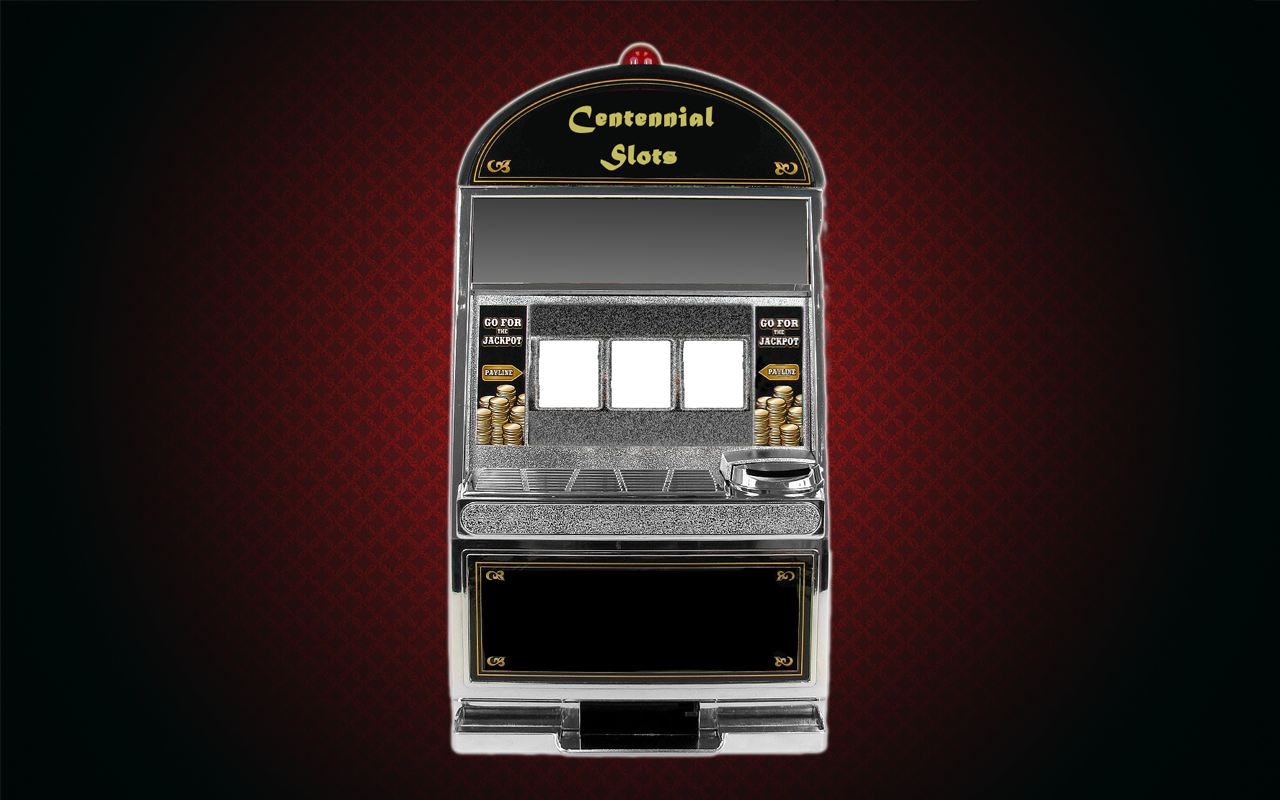
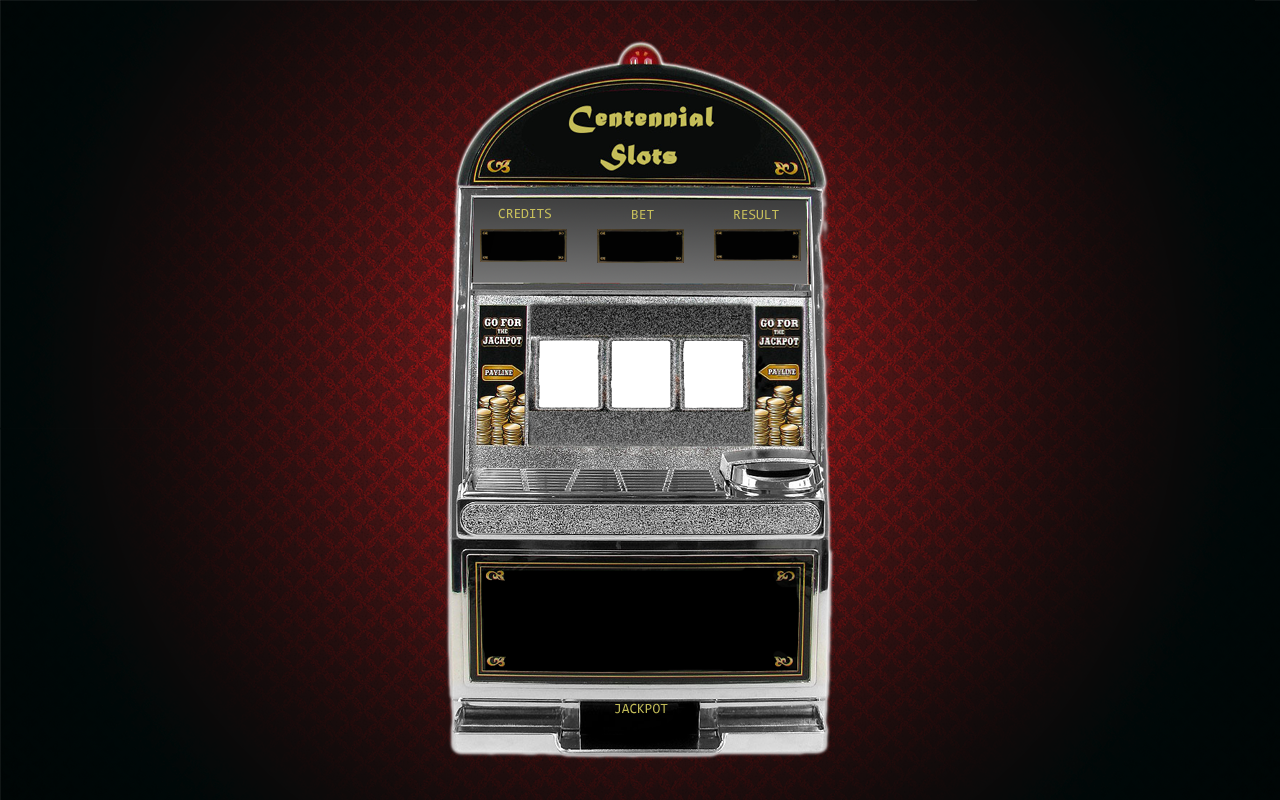
added labels

Changed region(s): [[0.375, 0.25, 0.625, 0.3438], [0.4688, 0.875, 0.5312, 0.9062]]

diff --git a/Scripts/scenes/slotmachine.ts b/Scripts/scenes/slotmachine.ts
@@ -7,7 +7,11 @@ module scenes {
         private _bet10Button: objects.Button;
         private _bet100Button: objects.Button;
         private _spinButton: objects.Button;
-        private _reels:createjs.Bitmap[];
+        private _reels: createjs.Bitmap[];
+        private _jackpotText: objects.Label;
+        private _creditsText: objects.Label;
+        private _betText: objects.Label;
+        private _resultText: objects.Label;
 
         private _grapes = 0;
         private _bananas = 0;
@@ -48,16 +52,46 @@ module scenes {
             // add SpinButton to the scene
             this._spinButton = new objects.Button("SpinButton", 716, 587, false);
             this.addChild(this._spinButton);
-            this._spinButton.on("click", this._spinButtonClick, this); 
-        
+            this._spinButton.on("click", this._spinButtonClick, this);
+
+            // add Credit Text to the scene
+            this._creditsText = new objects.Label(
+                "000000",
+                "20px Consolas",
+                "#ff0000",
+                557, 237, false);
+            this._creditsText.textAlign = "right";
+            this.addChild(this._creditsText);
+            
+            // add Bet Text to the scene
+            this._betText = new objects.Label(
+                "000000",
+                "20px Consolas",
+                "#ff0000",
+                675, 237, false);
+            this._betText.textAlign = "right";
+            this.addChild(this._betText);
+            
+            // add Result Text to the scene
+            this._resultText = new objects.Label(
+                "000000",
+                "20px Consolas",
+                "#ff0000",
+                792, 237, false);
+            this._resultText.textAlign = "right";
+            this.addChild(this._resultText);
+            
+            // add Jackpot Text to the scene
+            this._jackpotText = new objects.Label(
+                "000000000",
+                "20px Consolas",
+                "#ff0000",
+                690, 720, false);
+            this._jackpotText.textAlign = "right";
+            this.addChild(this._jackpotText);
+            
             //Initialize array of bitmaps
-            this._reels=new Array<createjs.Bitmap>();
-            for(var reel:number = 0; reel < 3; reel++){
-                this._reels[reel]=new createjs.Bitmap(assets.getResult("Blank"));
-                this._reels[reel].y=350;
-                this._reels[reel].x=545 + (reel * 72);
-                this.addChild(this._reels[reel]);                
-            }
+            this._initializeBitmapArray();
         
             // Setup Background
             this._setupBackground("BlackBackground");
@@ -125,6 +159,18 @@ module scenes {
             }
             return betLine;
         }
+
+        private _initializeBitmapArray(): void {
+            //Initialize array of bitmaps
+            
+            this._reels = new Array<createjs.Bitmap>();
+            for (var reel: number = 0; reel < 3; reel++) {
+                this._reels[reel] = new createjs.Bitmap(assets.getResult("Blank"));
+                this._reels[reel].y = 350;
+                this._reels[reel].x = 545 + (reel * 72);
+                this.addChild(this._reels[reel]);
+            }
+        }
         
         //EVENT HANDLERS ++++++++++++++++++++
         private _bet1ButtonClick(event: createjs.MouseEvent): void {
@@ -140,9 +186,9 @@ module scenes {
         }
 
         private _spinButtonClick(event: createjs.MouseEvent): void {
-            var bitmap:string[] = this._spinReels();
-            
-            for(var reel:number = 0; reel < 3; reel++){
+            var bitmap: string[] = this._spinReels();
+
+            for (var reel: number = 0; reel < 3; reel++) {
                 this._reels[reel].image = assets.getResult(bitmap[reel]);
             }
         }

diff --git a/Scripts/scenes/slotmachine.js b/Scripts/scenes/slotmachine.js
@@ -42,14 +42,24 @@ var scenes;
             this._spinButton = new objects.Button("SpinButton", 716, 587, false);
             this.addChild(this._spinButton);
             this._spinButton.on("click", this._spinButtonClick, this);
+            // add Credit Text to the scene
+            this._creditsText = new objects.Label("000000", "20px Consolas", "#ff0000", 557, 237, false);
+            this._creditsText.textAlign = "right";
+            this.addChild(this._creditsText);
+            // add Bet Text to the scene
+            this._betText = new objects.Label("000000", "20px Consolas", "#ff0000", 675, 237, false);
+            this._betText.textAlign = "right";
+            this.addChild(this._betText);
+            // add Result Text to the scene
+            this._resultText = new objects.Label("000000", "20px Consolas", "#ff0000", 792, 237, false);
+            this._resultText.textAlign = "right";
+            this.addChild(this._resultText);
+            // add Jackpot Text to the scene
+            this._jackpotText = new objects.Label("000000000", "20px Consolas", "#ff0000", 690, 720, false);
+            this._jackpotText.textAlign = "right";
+            this.addChild(this._jackpotText);
             //Initialize array of bitmaps
-            this._reels = new Array();
-            for (var reel = 0; reel < 3; reel++) {
-                this._reels[reel] = new createjs.Bitmap(assets.getResult("Blank"));
-                this._reels[reel].y = 350;
-                this._reels[reel].x = 545 + (reel * 72);
-                this.addChild(this._reels[reel]);
-            }
+            this._initializeBitmapArray();
             // Setup Background
             this._setupBackground("BlackBackground");
             // FadeIn
@@ -108,6 +118,16 @@ var scenes;
                 }
             }
             return betLine;
+        };
+        SlotMachine.prototype._initializeBitmapArray = function () {
+            //Initialize array of bitmaps
+            this._reels = new Array();
+            for (var reel = 0; reel < 3; reel++) {
+                this._reels[reel] = new createjs.Bitmap(assets.getResult("Blank"));
+                this._reels[reel].y = 350;
+                this._reels[reel].x = 545 + (reel * 72);
+                this.addChild(this._reels[reel]);
+            }
         };
         //EVENT HANDLERS ++++++++++++++++++++
         SlotMachine.prototype._bet1ButtonClick = function (event) {

diff --git a/Scripts/objects/label.ts b/Scripts/objects/label.ts
@@ -2,10 +2,13 @@
     // LABEL CLASS ++++++++++++++++++++++++++++++++++++++++++++++
     export class Label extends createjs.Text {
         // CONSTRUCTOR METHOD +++++++++++++++++++++++++++++++++++
-        constructor(labelString: string, labelFont: string, labelColour: string, x: number, y: number) {
+        constructor(labelString: string, labelFont: string, labelColour: string, x: number, y: number, isCentered: boolean) {
             super(labelString, labelFont, labelColour);
-            this.regX = this.getBounds().width * 0.5;
-            this.regY = this.getBounds().height * 0.5;
+            if (isCentered) {
+                this.regX = this.getBounds().width * 0.5;
+                this.regY = this.getBounds().height * 0.5;
+            }
+            
             this.x = x;
             this.y = y;
         }

diff --git a/Scripts/objects/label.js b/Scripts/objects/label.js
@@ -9,10 +9,12 @@ var objects;
     var Label = (function (_super) {
         __extends(Label, _super);
         // CONSTRUCTOR METHOD +++++++++++++++++++++++++++++++++++
-        function Label(labelString, labelFont, labelColour, x, y) {
+        function Label(labelString, labelFont, labelColour, x, y, isCentered) {
             _super.call(this, labelString, labelFont, labelColour);
-            this.regX = this.getBounds().width * 0.5;
-            this.regY = this.getBounds().height * 0.5;
+            if (isCentered) {
+                this.regX = this.getBounds().width * 0.5;
+                this.regY = this.getBounds().height * 0.5;
+            }
             this.x = x;
             this.y = y;
         }

diff --git a/Scripts/scenes/gameover.js b/Scripts/scenes/gameover.js
@@ -16,7 +16,7 @@ var scenes;
         // Start Method
         GameOver.prototype.start = function () {
             // add the WELCOME Label to the MENU scene
-            this._gameOverLabel = new objects.Label("GAME OVER", "60px Consolas", "#000000", config.Screen.CENTER_X, config.Screen.CENTER_Y);
+            this._gameOverLabel = new objects.Label("GAME OVER", "60px Consolas", "#000000", config.Screen.CENTER_X, config.Screen.CENTER_Y, true);
             this.addChild(this._gameOverLabel);
             // add the START button to the MENU scene
             this._startOverButton = new objects.Button("StartButton", config.Screen.CENTER_X, config.Screen.CENTER_Y + 80, true);

diff --git a/Scripts/scenes/gameover.ts b/Scripts/scenes/gameover.ts
@@ -21,7 +21,7 @@ module scenes {
                 "60px Consolas", 
                 "#000000", 
                 config.Screen.CENTER_X, 
-                config.Screen.CENTER_Y);
+                config.Screen.CENTER_Y, true);
             this.addChild(this._gameOverLabel);      
                    
             // add the START button to the MENU scene
